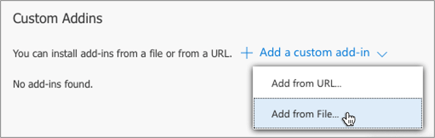
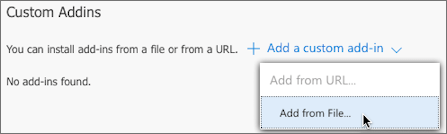
Update Add from URL option support

diff --git a/docs/outlook/sideload-outlook-add-ins-for-testing.md b/docs/outlook/sideload-outlook-add-ins-for-testing.md
@@ -1,7 +1,7 @@
 ---
 title: Sideload Outlook add-ins for testing
 description: Use sideloading to install an Outlook add-in for testing without having to first put it in an add-in catalog.
-ms.date: 08/14/2023
+ms.date: 10/19/2023
 ms.topic: how-to
 ms.localizationpriority: medium
 ---
@@ -68,6 +68,8 @@ The process for sideloading an add-in in Outlook on the web depends on whether y
 
     ![The Add from File option is selected in the Custom Add-ins section.](../images/outlook-sideload-custom-add-in.png)
 
+    [!INCLUDE [outlook-sideloading-url](../includes/outlook-sideloading-url.md)]
+
 1. Locate the manifest file for your custom add-in and install it. Accept all prompts during the installation.
 
     > [!IMPORTANT]
@@ -88,6 +90,8 @@ The process for sideloading an add-in in Outlook on the web depends on whether y
 1. Locate the **Custom add-ins** section at the bottom of the dialog box. Select the **Add a custom add-in** link, and then select **Add from File**.
 
     ![The Add from File option is selected in the Custom Add-ins section.](../images/outlook-sideload-custom-add-in.png)
+
+    [!INCLUDE [outlook-sideloading-url](../includes/outlook-sideloading-url.md)]
 
 1. Locate the manifest file for your custom add-in and install it. Accept all prompts during the installation.
 
@@ -142,6 +146,8 @@ The process for sideloading an add-in in Outlook on the web depends on whether y
 
     ![The Add from File option is selected in the Custom add-ins section.](../images/outlook-sideload-custom-add-in.png)
 
+    [!INCLUDE [outlook-sideloading-url](../includes/outlook-sideloading-url.md)]
+
 1. Locate the manifest file for your custom add-in and install it. Accept all prompts during the installation.
 
 ### Outlook 2013
@@ -174,6 +180,8 @@ The process for sideloading an add-in in Outlook on the web depends on whether y
 1. Locate the **Custom add-ins** section at the bottom of the dialog. Select the **Add a custom add-in** link, and then select **Add from File**.
 
     ![The Add from File option is selected in the Custom add-ins section.](../images/outlook-sideload-custom-add-in-mac.png)
+
+    [!INCLUDE [outlook-sideloading-url](../includes/outlook-sideloading-url.md)]
 
 1. Locate the manifest file for your custom add-in and install it. Accept all prompts during the installation.
 

diff --git a/docs/includes/outlook-sideloading-url.md b/docs/includes/outlook-sideloading-url.md
@@ -1,0 +1,2 @@
+> [!NOTE]
+> The **Add from URL** option is no longer available to sideload a custom Outlook add-in. As a workaround, open the URL in your preferred browser to download the manifest file, then use the **Add from File** option to sideload the add-in.
